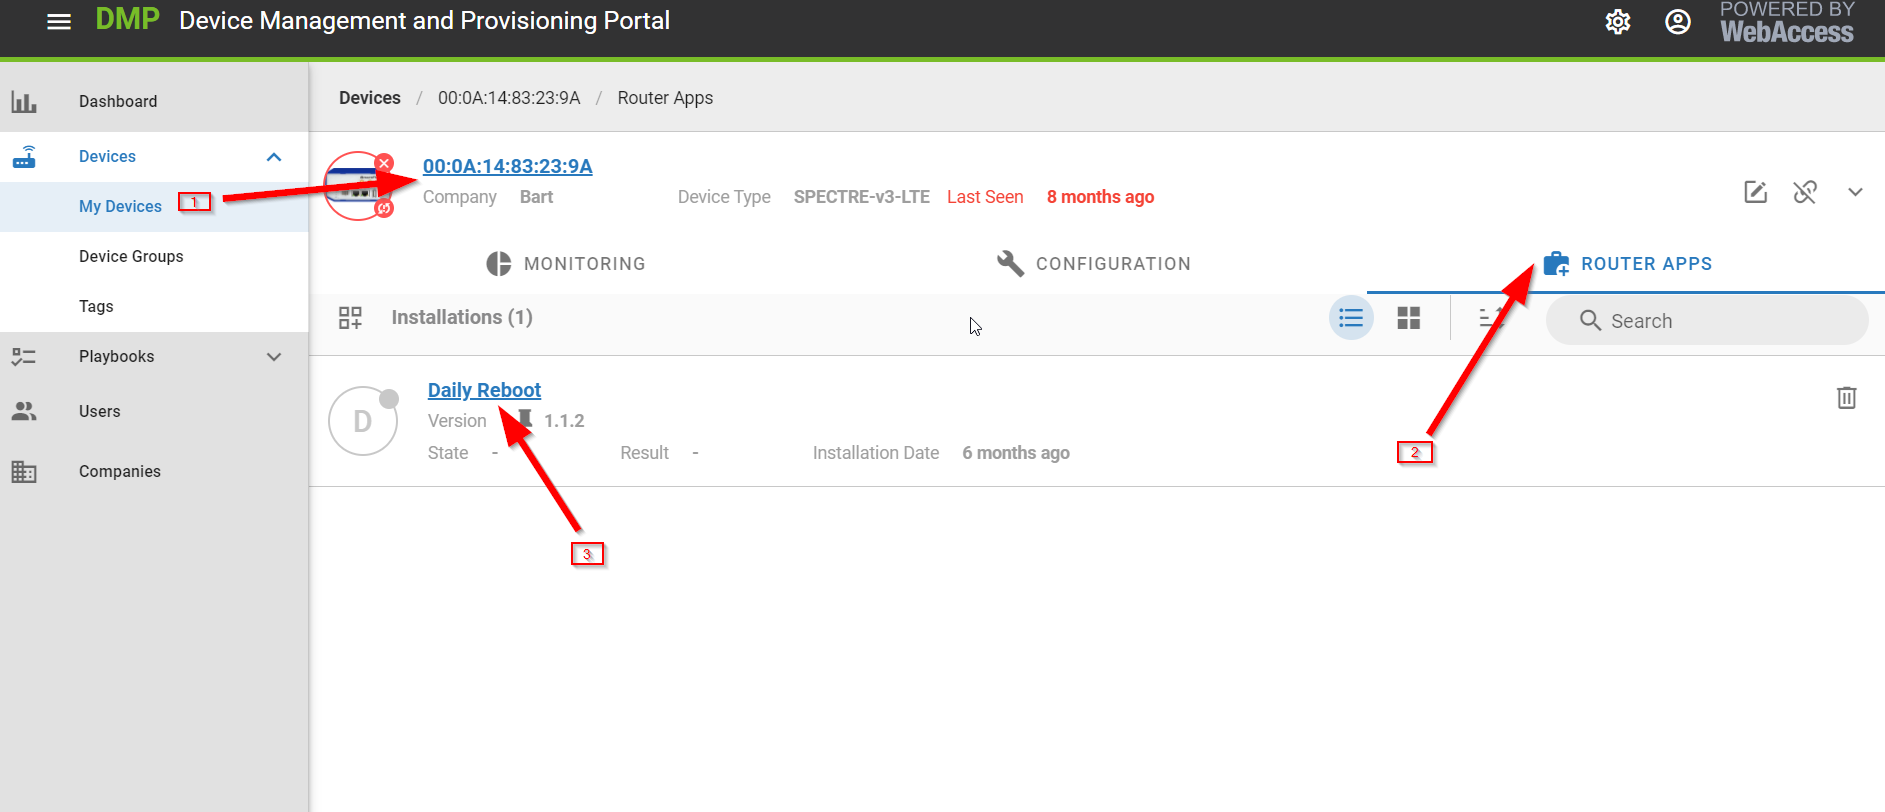
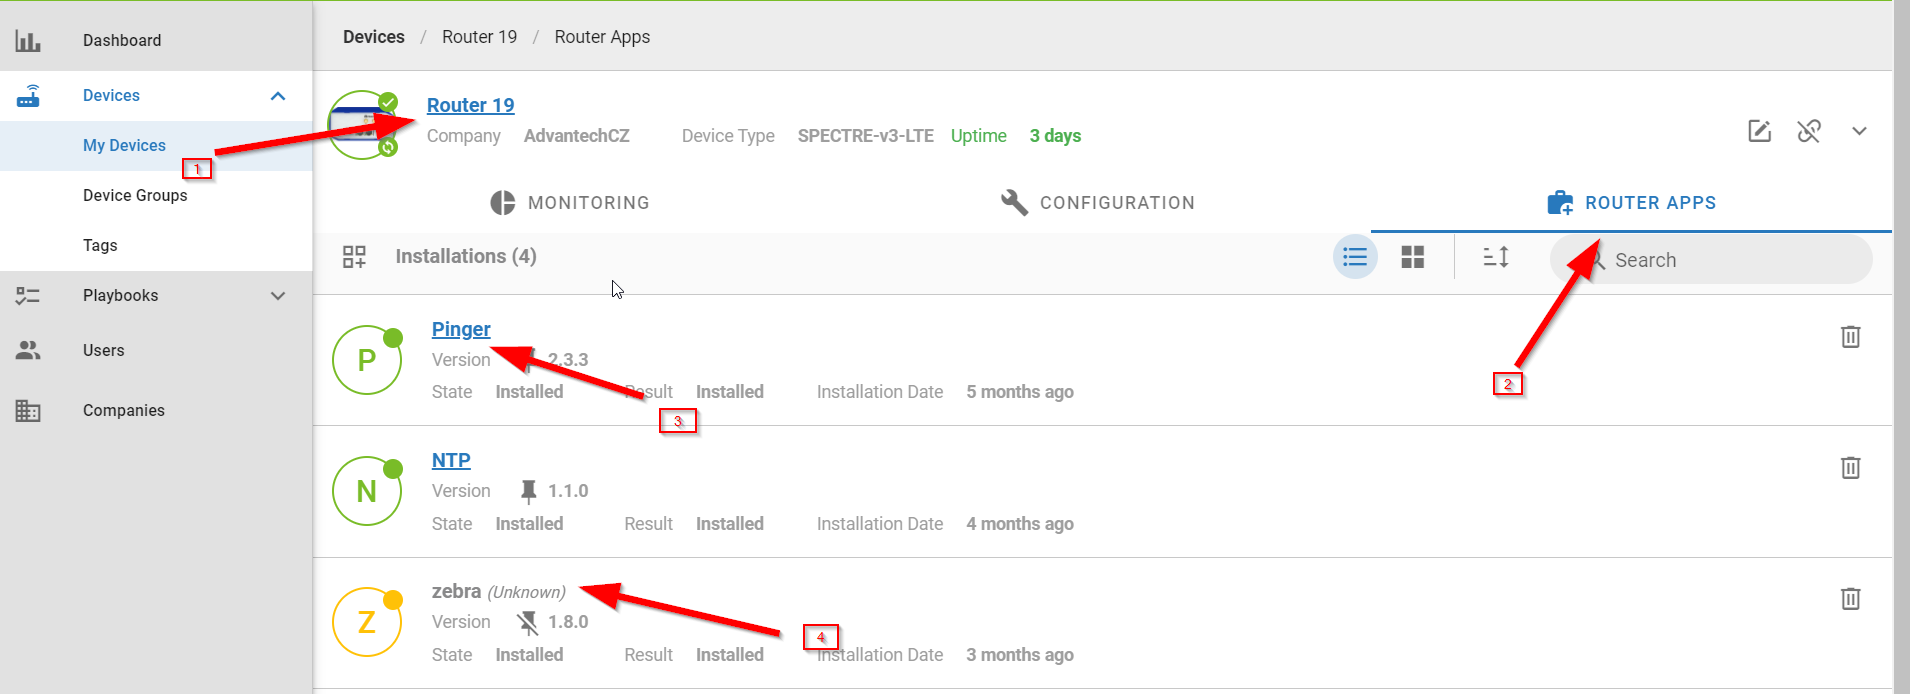
GEN2-2386: Updated based on review

diff --git a/explanations-discussions/Installing-and-Upgrading-Router-Apps.md b/explanations-discussions/Installing-and-Upgrading-Router-Apps.md
@@ -1,9 +1,10 @@
 # Installing and Upgrading Router Apps
-## Router Apps can extend the the features of the device above the firmware features.
+ Router Apps can extend the the features of the device above the firmware features.
 
 1. Select device
 2. Click on "Router apps"
 3. There is instaled app
+4. There is no way to edit properties of yellow (unknown) Router Apps, because they are not supported by the platform, yet. When the App is known by the platform, but the version is not known, it is also yellow - you can reinstall it with known version.
 ![alt text](../images/explanations-discussions/installing-and-upgrading/1.png)
 
 If you want to add more applications, click on this icon. 
@@ -15,6 +16,8 @@ If you want to add more applications, click on this icon.
 ![alt text](../images/explanations-discussions/installing-and-upgrading/3.png)
 
 If we want to keep a specific update, pin it.
+if  we try to upgrade or unisntall the pinned Router App locally in the device, it will be installed back to pinned version immediately when connected to DMP again. You can also pin Firmware the same way.
+
 ![alt text](../images/explanations-discussions/installing-and-upgrading/4.png)
 
 
